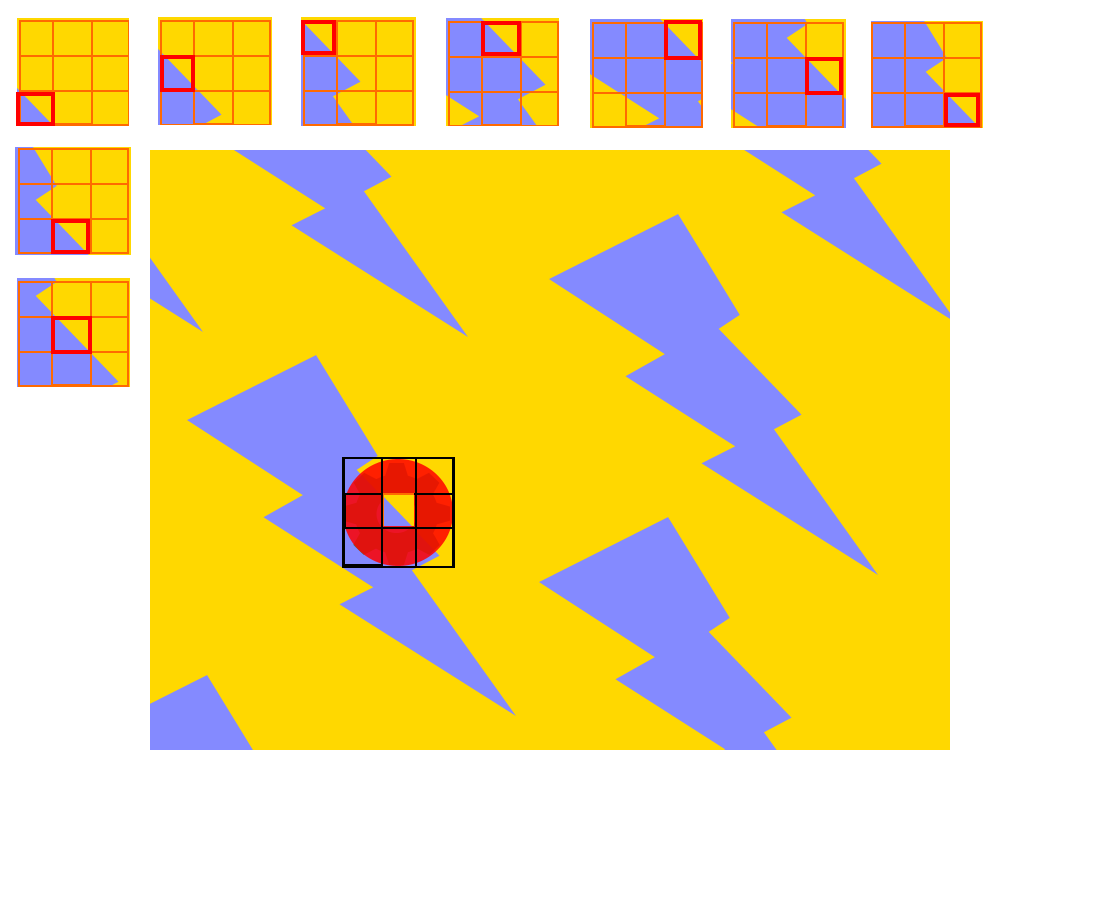
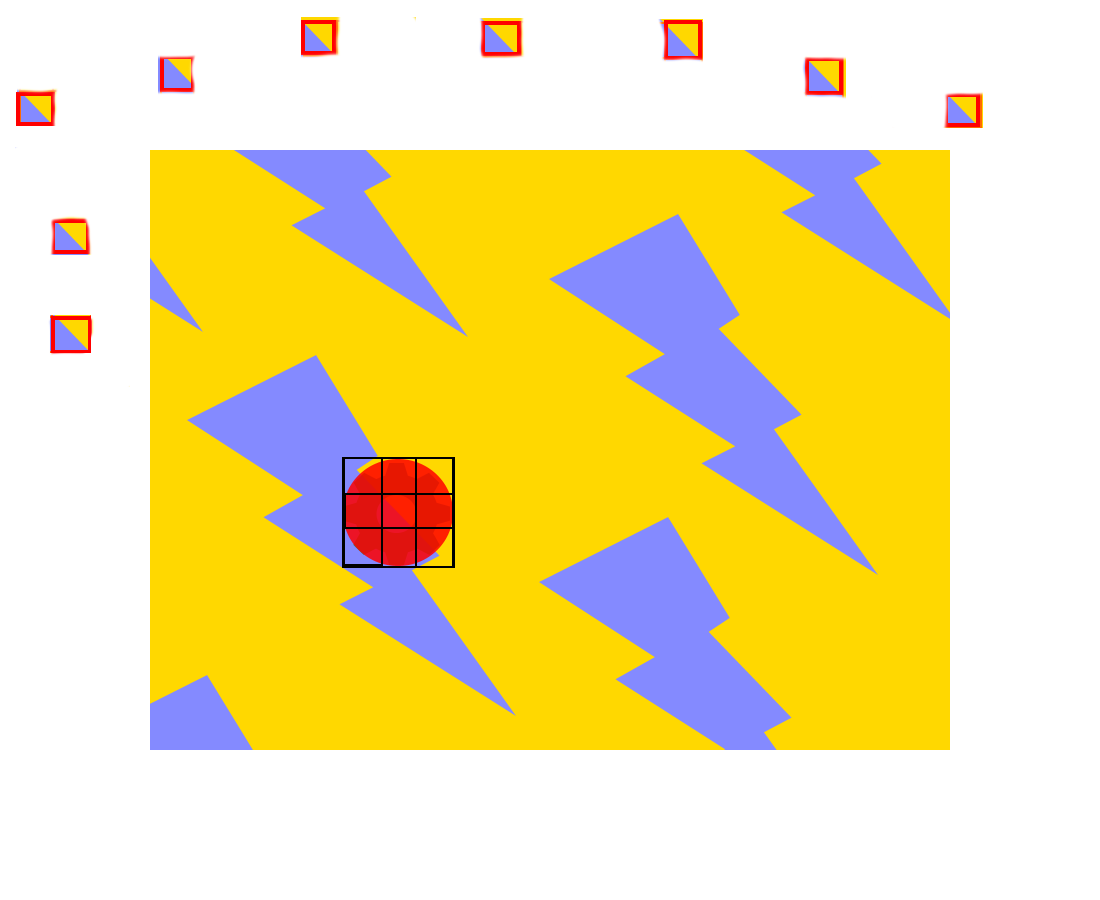
wex alg explained and many other changes

Changed region(s): [[0.0, 0.0, 0.8964, 0.4356], [0.34, 0.5289, 0.4018, 0.5911]]

diff --git a/PITCHME/assets/md/PITCHME.md b/PITCHME/assets/md/PITCHME.md
@@ -59,7 +59,7 @@ Here is a demonstration video about the app (Move to the next slide)
 
 Video Demo
 
-#### Video Disabled
+<iframe width="840" height="472" src="https://www.youtube.com/embed/QMWHeGsVjFA?rel=0" frameborder="0" allow="autoplay; encrypted-media" allowfullscreen></iframe>
 
 Note:
 1. Watch video
@@ -340,12 +340,17 @@ So we need to find the values of these pixels.
 
 Note:
 There are more, but for the sake of simplicity we imagine that these are only six these.
-In order to find the values we going to find similar patches on the images.
+In order to find the values we going to find similar patches at the image.
 
-Let's start with inpainting the pixel in the middle.
+Let's start with finding a value of the pixel in the middle.
 
-The pixel is contained in 9 patches surrounding it. We are going to find the similar patches to every out of these 9. So that we could find the value
+We will use patches of 3 by 3 size.
+
+The pixel is contained in 9 patches surrounding it.
+We are going to find the similar patches to every out of these 9. So that we could find the value
 based on the statistics.
+
+// TODO: may be it is better to show all these patches in a next slide using gif animation?
 
 ---
 <!-- .slide: data-transition="none" -->
@@ -354,8 +359,8 @@ based on the statistics.
 <img src="./assets/md/assets/inpaint/process004.png"  height="500" /> 
 
 Note:
+We have found a similar patch for one of the 9.
 
-We have found a similar patch.
 
 ---
 <!-- .slide: data-transition="none" -->
@@ -405,11 +410,8 @@ We have found a similar patch.
 
 <img src="./assets/md/assets/inpaint/process012.png"  height="500" /> 
 
----
-<!-- .slide: data-transition="none" -->
-<span class="menu-title" style="display: none">Inpainting alg</span>
-
-// TODO: avg pix value calculation
+Note:
+We have now patches that suggest us the value of the pixel
 
 ---
 <!-- .slide: data-transition="none" -->
@@ -418,11 +420,30 @@ We have found a similar patch.
 <img src="./assets/md/assets/inpaint/process013.png"  height="500" /> 
 
 Note:
-Like this, but we will get pixels from all the 9 patches that are related to all 9 pixels of the patch.
+These are the values.
 
-This we need to perform for every pixel of the marked area.
+And if we will take an average of their value(Next slide)
 
-So we basically see two main operations (Next slide)
+---
+<!-- .slide: data-transition="none" -->
+<span class="menu-title" style="display: none">Inpainting alg</span>
+
+<img src="./assets/md/assets/inpaint/process014.png"  height="500" /> 
+
+Note:
+We will get the more or less reliable value of the pixel
+
+Lets set this value(Next slide)
+
+---
+<!-- .slide: data-transition="none" -->
+<span class="menu-title" style="display: none">Inpainting alg</span>
+
+<img src="./assets/md/assets/inpaint/process015.png"  height="500" /> 
+
+Note:
+The process is repeated for the each pixel in the area until all the values are not calculated
+
 
 ---
 <!-- .slide: data-transition="none" -->
@@ -431,179 +452,81 @@ So we basically see two main operations (Next slide)
 <img src="./assets/md/assets/inpaint/process_rest.gif"  height="500" /> 
 
 Note:
-The process is repeated for the each pixel in the area until all the values are not calculated
+In the reality the image is bigger and pixels are smaller. That is why the whole process is done on an image pyramid.
 
 ---
-<span class="menu-title" style="display: none">Inpainting alg</span>
+<span class="menu-title" style="display: none">Image Pyramids</span>
 
-// TODO: 
+<img src="./assets/md/assets/inpaint/process016.png"  height="500" /> 
 
 Note:
-The most difficult in that process is to find similar patch. You can imagine that we need to analyse the whole image for the best match and that we need to do for all the patches. We need to have some sort of mapping and that mapping is called Near Neighbour Field or NNF for short.
-
-N - image pix
-M - markup pixels
-
-comparisons M * (N-M)
-
-800x600 = 480 000
-100x100 = 10 000
-
-10 000 * 470 000 = 4 700 000 000
-naive approach would require
+Image pyramid is built by scaling down the original image by factor 2. After that we run the algorithm at the lowest scale and after that propagate results to the upper level and perform processing.
 
 ---
-<span class="menu-title" style="display: none">Inpainting alg</span>
+<span class="menu-title" style="display: none">Patch Match</span>
 
-// TODO: Patch Match
-
-Note:
-We use PatchMatch algorithm that allows to build NNF in 5 runs
-
-M * (2 + 5)
-
-70 000 comparisons
-
----
-
-<span class="menu-title" style="display: none">Inpainting alg</span>
-
-- Build NNF
-- Inpaint  <!-- .element: class="fragment" -->
+### Critical part
+- Amount of Patches = Image Width * Image Height <!-- .element: class="fragment" -->
+  - 800 * 600 = 480 000
+- Nearest Neighbour Field (NNF) <!-- .element: class="fragment" -->
+- Use PatchMatch <!-- .element: class="fragment" -->
+  - Requires only about 5 runs through image
 
 Note:
+The most time consuming part of this approach is to find best match for every patch at the entire image.
+For every patch we need to go thru entire image and find the best match. Image contains Patches = Width * Height 
 
-One is to build a Near Neighbour Field to be able to find similar patches (Next bullet)
+We need to build a mapping between patches.
 
-And calculate value of the each pixel in the area based on the similar patches. It is Inpainting.
+I use PatchMatch algorithm that allows to speed up his process significantly. More iterations we perform the precisier NNF becomes.
 
-This is an iterative optimization process that is performed on different levels of detalization starting from the lowest one and improve it.
-
+Now we should be able to outline the entire process (Next slide)
 
 ---
 <!-- .slide: data-transition="none" -->
 
 <span class="menu-title" style="display: none">Wex algorithm</span>
 
-```
-
-
-
-      // Build nnf
-.
-.
-.
-.
-.
-.
-.
-```
-
-
----
-<!-- .slide: data-transition="none" -->
-
-<span class="menu-title" style="display: none">Wex algorithm</span>
-
-```
-
-
-
-      // Build nnf
-.
-.
-.
-.
-.
-.
-.
-```
-
----
-<!-- .slide: data-transition="none" -->
-
-<span class="menu-title" style="display: none">Wex algorithm</span>
-
-```
+<pre>
 
 
     for j < nnfBuildIterations
-      // Build nnf
+      // build nnf
     end
-.
-.
-.
-.
-.
-.
-```
+
+
+
+
+
+
+</pre>
 
 ---
 <!-- .slide: data-transition="none" -->
 
 <span class="menu-title" style="display: none">Wex algorithm</span>
 
-```
+<pre>
 
 
     for j < nnfBuildIterations
-      // Build nnf
+      // build nnf
     end
     foreach pixel in removeArea
       // Calc pixel value - inpainting
     end
-.
-.
-.
-```
+
+
+
+</pre>
 
 ---
 <!-- .slide: data-transition="none" -->
 
 <span class="menu-title" style="display: none">Wex algorithm</span>
 
-```
+<pre>
 
-
-    for j < nnfBuildIterations
-      // Build nnf
-    end
-    foreach pixel in removeArea
-      // Calc pixel value - inpainting
-    end
-.
-.
-.
-```
-
-
----
-<!-- .slide: data-transition="none" -->
-
-<span class="menu-title" style="display: none">Wex algorithm</span>
-
-```
-
-  for i < inpaintIterations
-    for j < nnfBuildIterations
-      // Build nnf
-    end
-    foreach pixel in removeArea
-      // Calc pixel value - inpainting
-    end
-    // scale up NNF
-  end
-.
-```
-
-
----
-<!-- .slide: data-transition="none" -->
-
-<span class="menu-title" style="display: none">Wex algorithm</span>
-
-```
-for level in levels
   for i < inpaintIterations
     for j < nnfBuildIterations
       // build nnf
@@ -611,10 +534,30 @@ for level in levels
     foreach pixel in removeArea
       // Calc pixel value - inpainting
     end
-    // scale up NNF
   end
+
+
+</pre>
+
+
+---
+<!-- .slide: data-transition="none" -->
+
+<span class="menu-title" style="display: none">Wex algorithm</span>
+
+<pre>
+foreach level in levels
+  for i < inpaintIterations
+    for j < nnfBuildIterations
+      // build nnf
+    end
+    foreach pixel in removeArea
+      // Calc pixel value - inpainting
+    end
+  end
+  // scale up NNF
 end
-```
+</pre>
 
 ---
 
